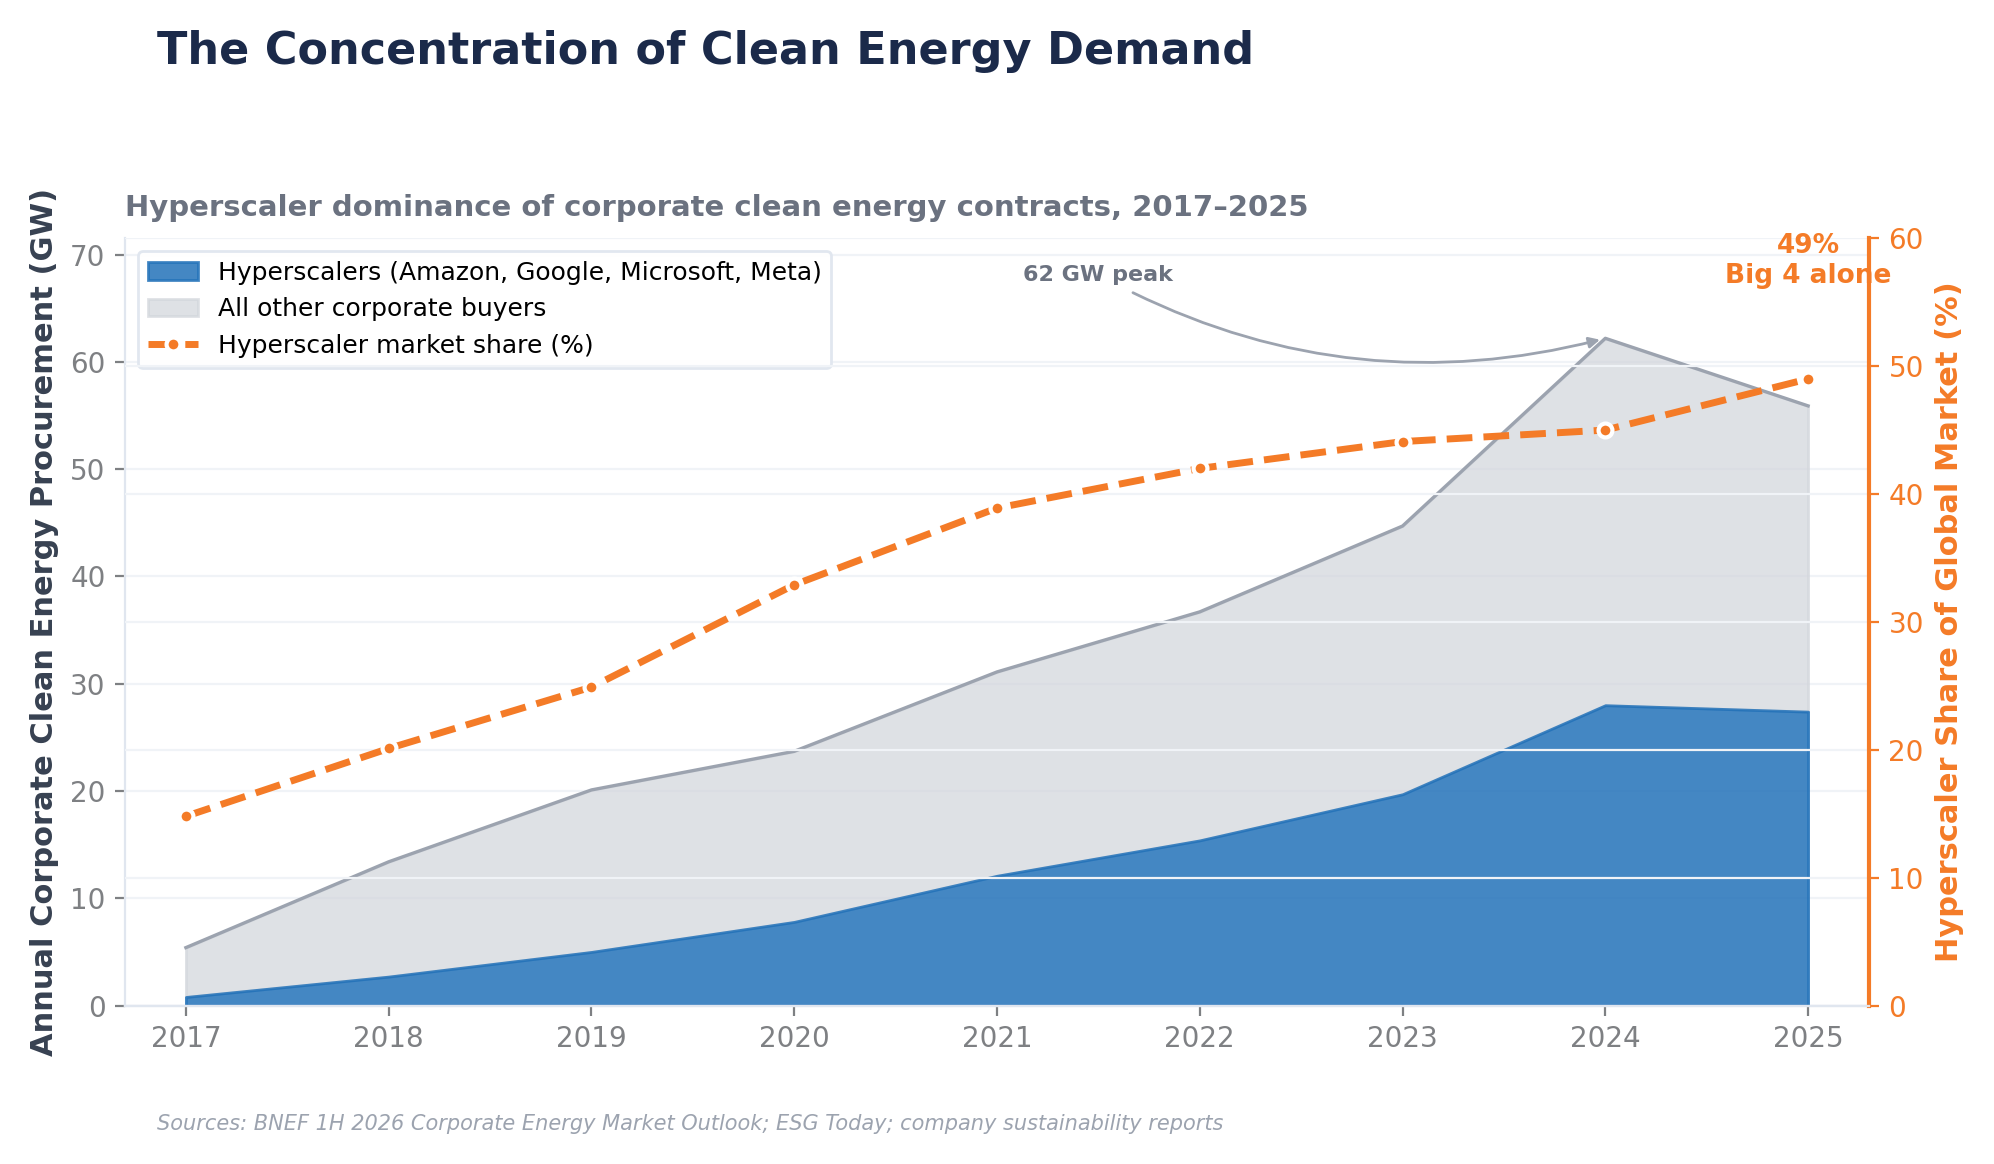
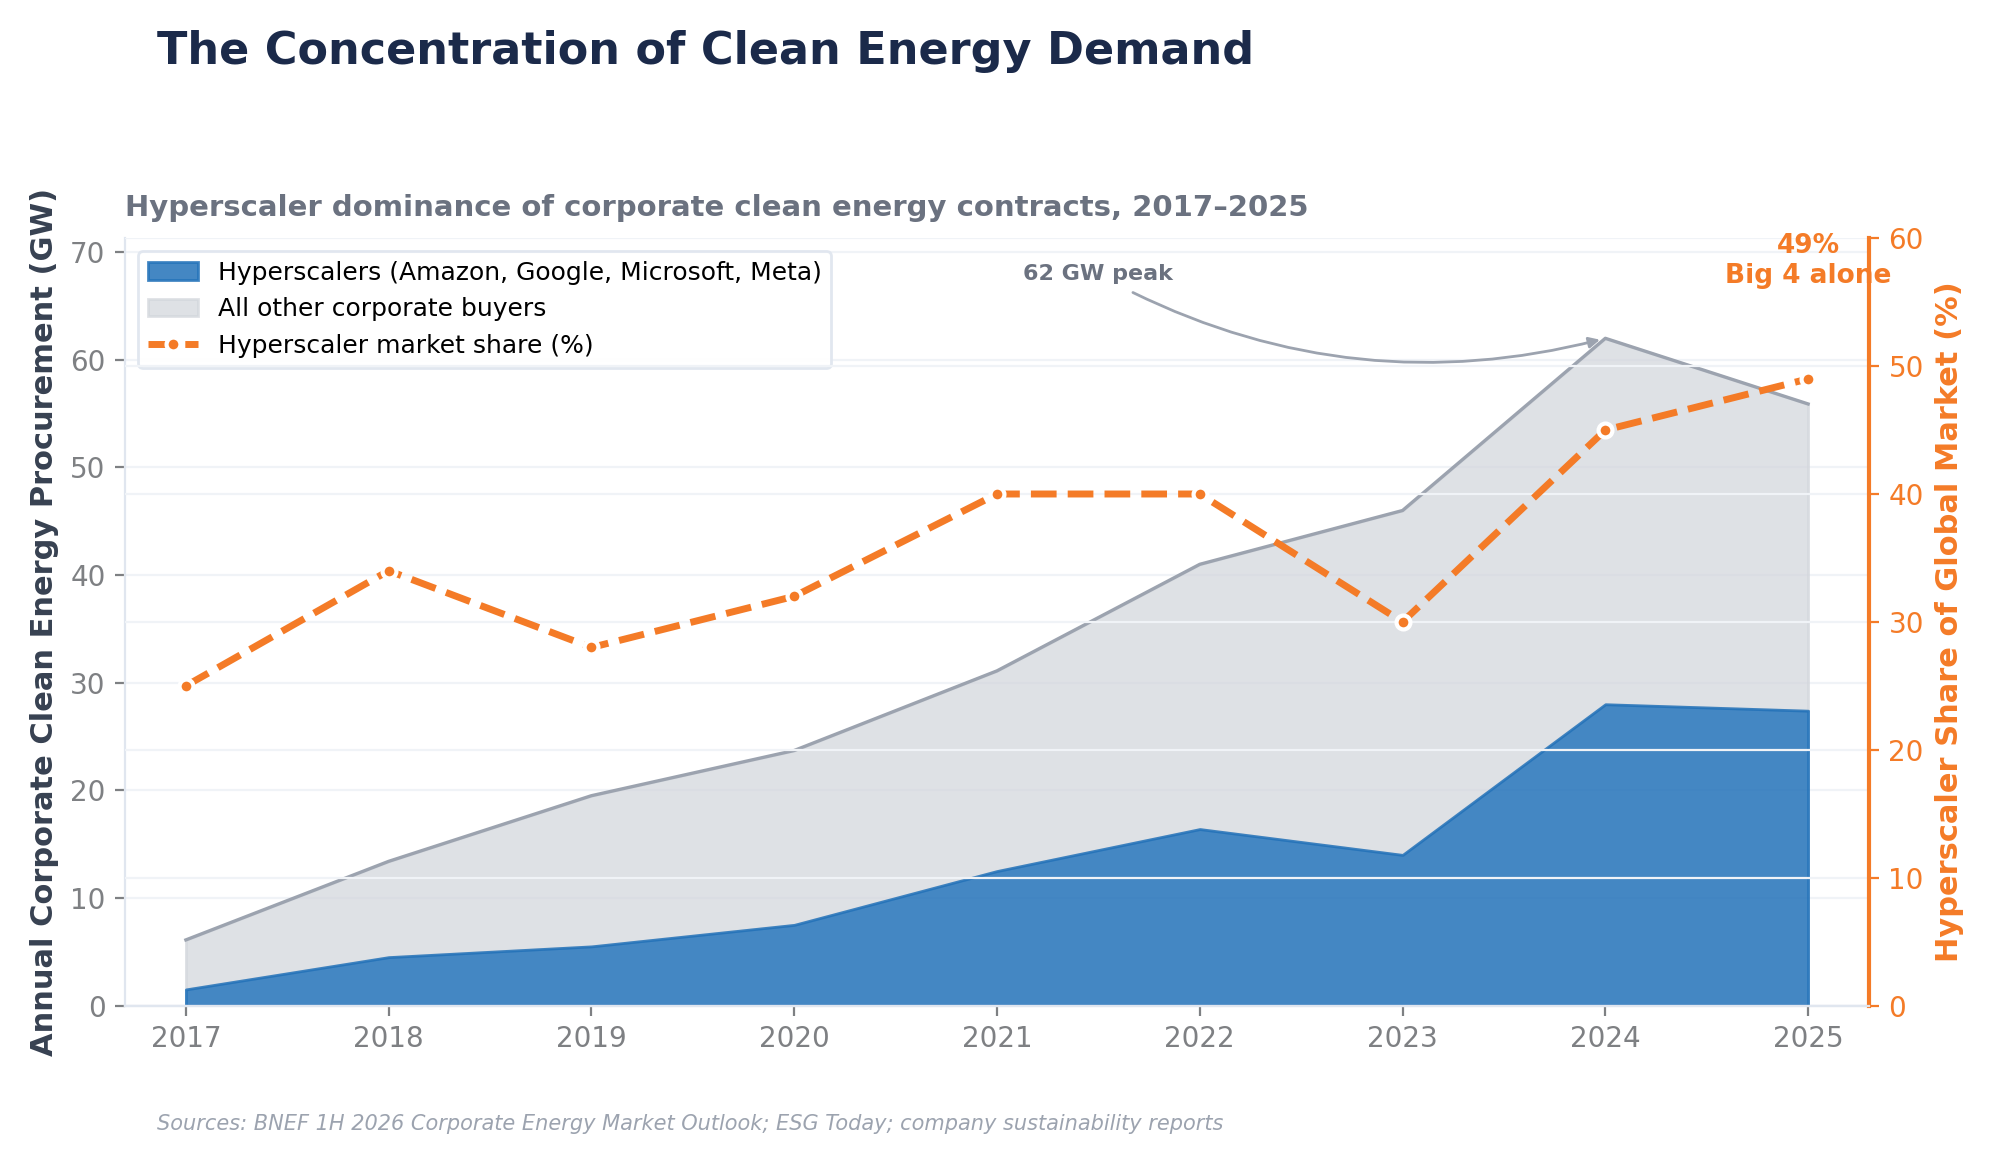
Update hyperscaler procurement CSV with BNEF-verified data points
Replaced estimated figures with BNEF-published data from research:
- 2017: 6.1 GW total (was 5.4), hyperscaler ~1.5 GW (25%)
- 2019: 19.5 GW total (was 20.1), all 4 individually reported by BNEF
- 2022: 41.0 GW revised total (was 36.7), all 4 individually reported
- 2023: hyperscaler share was 30% (not 44%) — Amazon pulled back from
  10.9→8.8 GW, Microsoft dropped from top rankings
- Added confidence flags (P=published, E=estimated) to source notes
- Data now shows the 2023 hyperscaler share dip → 2025 rebound to 49%

Regenerated figure and deck HTML.

https://claude.ai/code/session_019nXY9g6MiVf7c9dWQWkqUk

diff --git a/data-center-cfe/output/vre-investment-thesis-deck.html b/data-center-cfe/output/vre-investment-thesis-deck.html
@@ -2796,7 +2796,7 @@ if (hyperCtx) {
       datasets: [
         {
           label: 'Hyperscalers',
-          data: [0.8, 2.7, 5.0, 7.8, 12.1, 15.4, 19.7, 28.0, 27.4],
+          data: [1.5, 4.5, 5.5, 7.5, 12.5, 16.4, 14.0, 28.0, 27.4],
           backgroundColor: 'rgba(35,114,185,0.82)',
           borderColor: '#2372B9',
           borderWidth: 1.5,
@@ -2810,7 +2810,7 @@ if (hyperCtx) {
         },
         {
           label: 'Other Corporates',
-          data: [5.4, 13.4, 20.1, 23.7, 31.1, 36.7, 44.7, 62.2, 55.9],
+          data: [6.1, 13.4, 19.5, 23.7, 31.1, 41.0, 46.0, 62.0, 55.9],
           backgroundColor: 'rgba(209,213,219,0.6)',
           borderColor: '#9CA3AF',
           borderWidth: 1,
@@ -2821,7 +2821,7 @@ if (hyperCtx) {
         },
         {
           label: 'Hyperscaler Share (%)',
-          data: [14.8, 20.1, 24.9, 32.9, 38.9, 42.0, 44.1, 45.0, 49.0],
+          data: [25.0, 34.0, 28.0, 32.0, 40.0, 40.0, 30.0, 45.0, 49.0],
           borderColor: '#F47B27',
           borderWidth: 2.5,
           borderDash: [6, 3],
